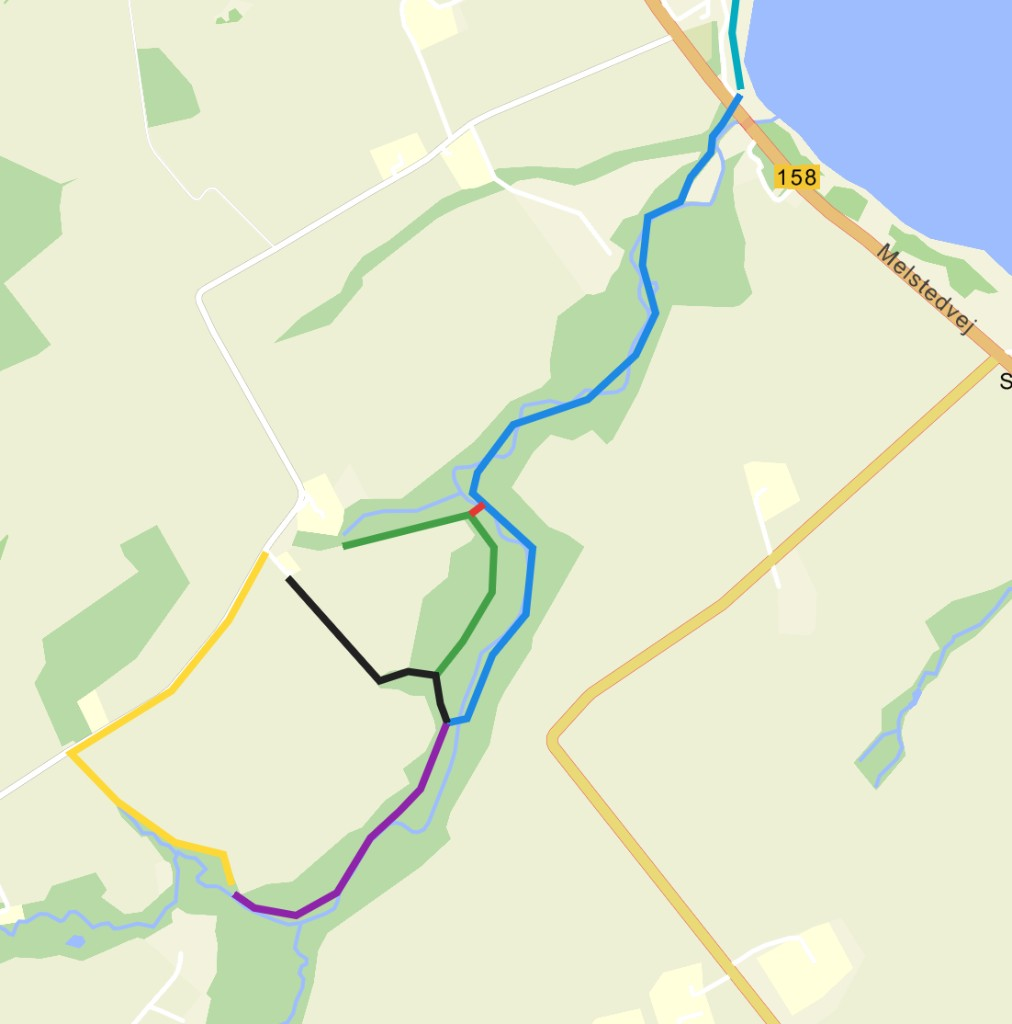
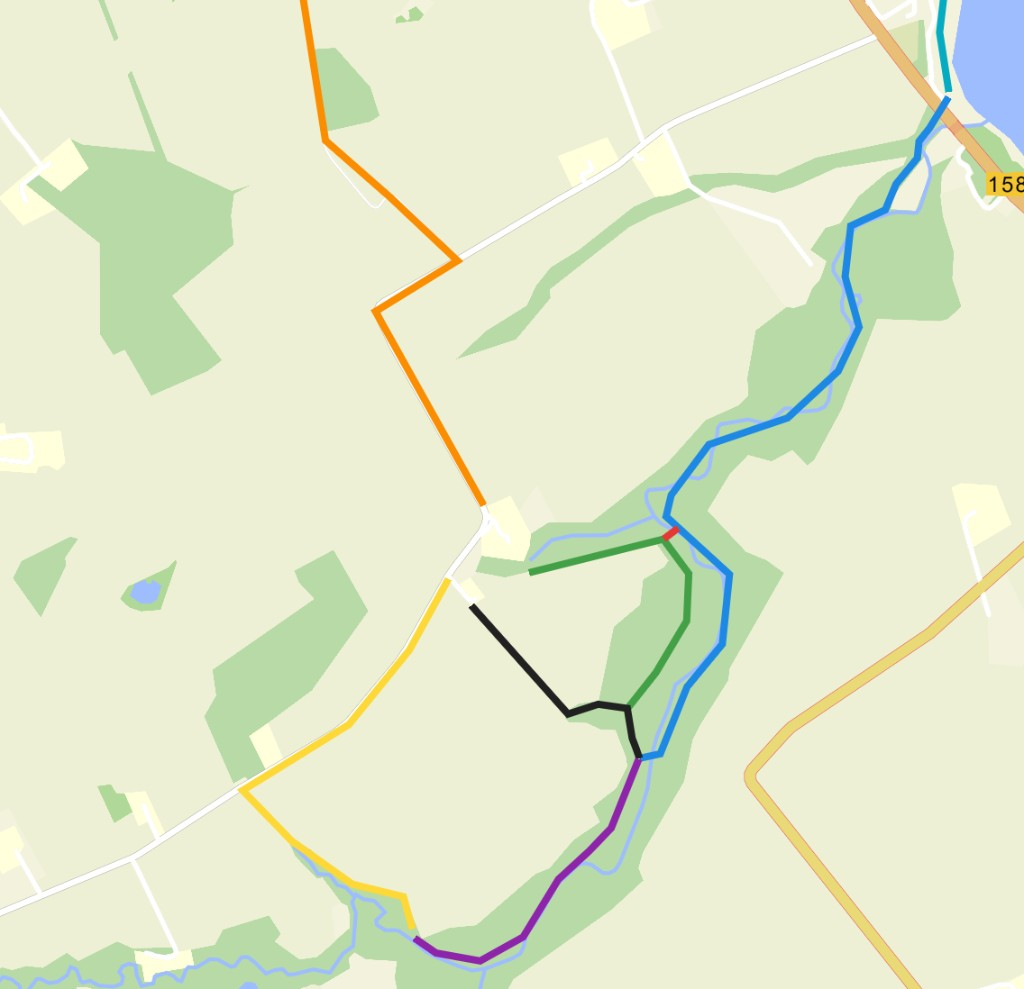
Replace route maps with latest uploaded versions.

diff --git a/ruter-alle-bred.html b/ruter-alle-bred.html
@@ -38,7 +38,7 @@
         </header>
 
         <div class="entry-content">
-          <button type="button" class="billeder-card billeder-card--map" data-full="billeder/ruter-alle-bred.png" data-max-width="1014" style="--map-preview-width: 480px">
+          <button type="button" class="billeder-card billeder-card--map" data-full="billeder/ruter-alle-bred.png" data-max-width="992" style="--map-preview-width: 480px">
             <img src="billeder/ruter-alle-bred.png" alt="Oversigtskort med alle fire vandreruter fra Kobbegaard"/>
           </button>
 

diff --git a/ruter-alle-taet.html b/ruter-alle-taet.html
@@ -38,7 +38,7 @@
         </header>
 
         <div class="entry-content">
-          <button type="button" class="billeder-card billeder-card--map" data-full="billeder/ruter-alle-tæt.png" data-max-width="1012" style="--map-preview-width: 480px">
+          <button type="button" class="billeder-card billeder-card--map" data-full="billeder/ruter-alle-tæt.png" data-max-width="1024" style="--map-preview-width: 480px">
             <img src="billeder/ruter-alle-tæt.png" alt="Oversigtskort med alle ruter — tættere udsnit"/>
           </button>
 